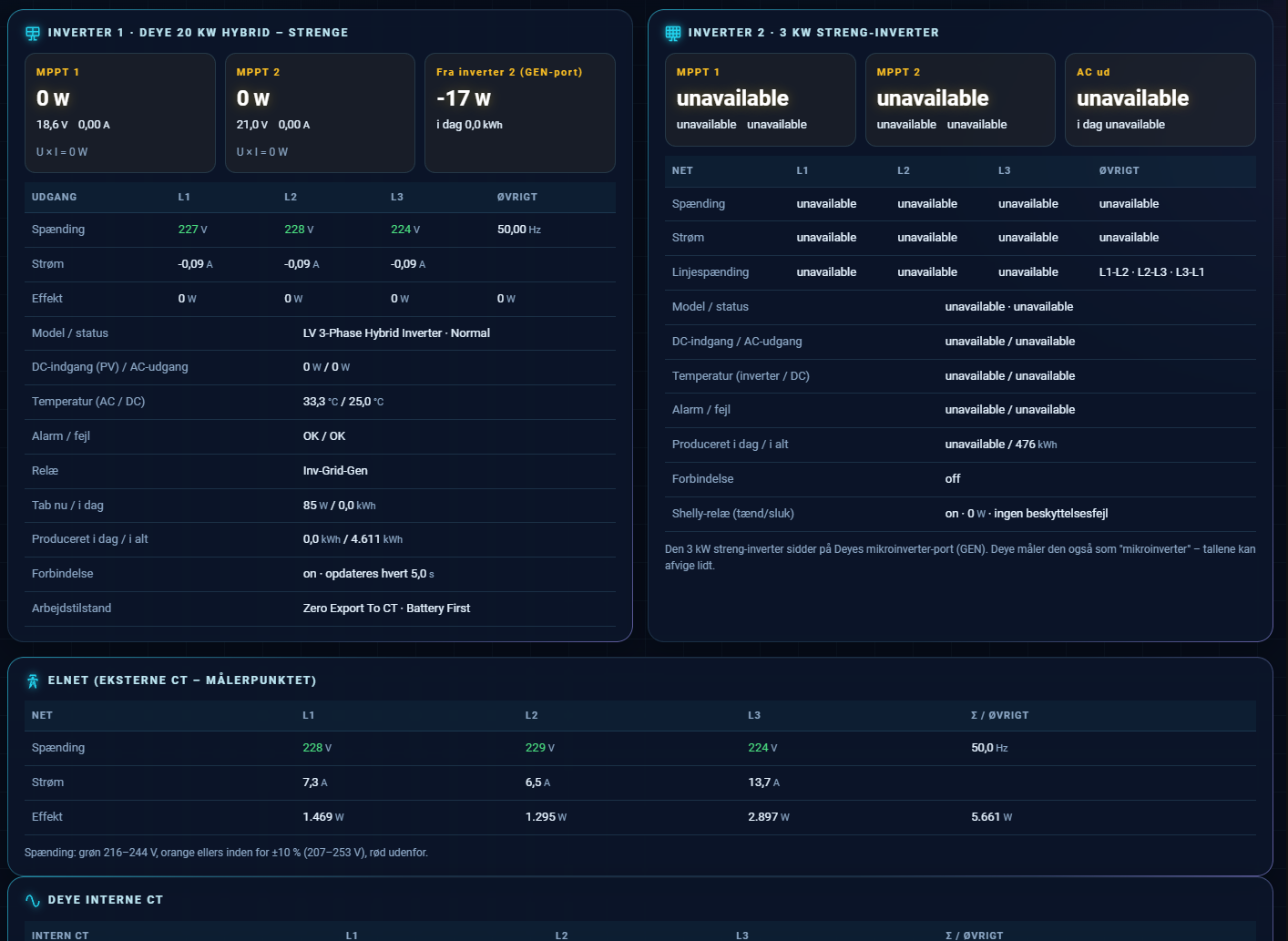
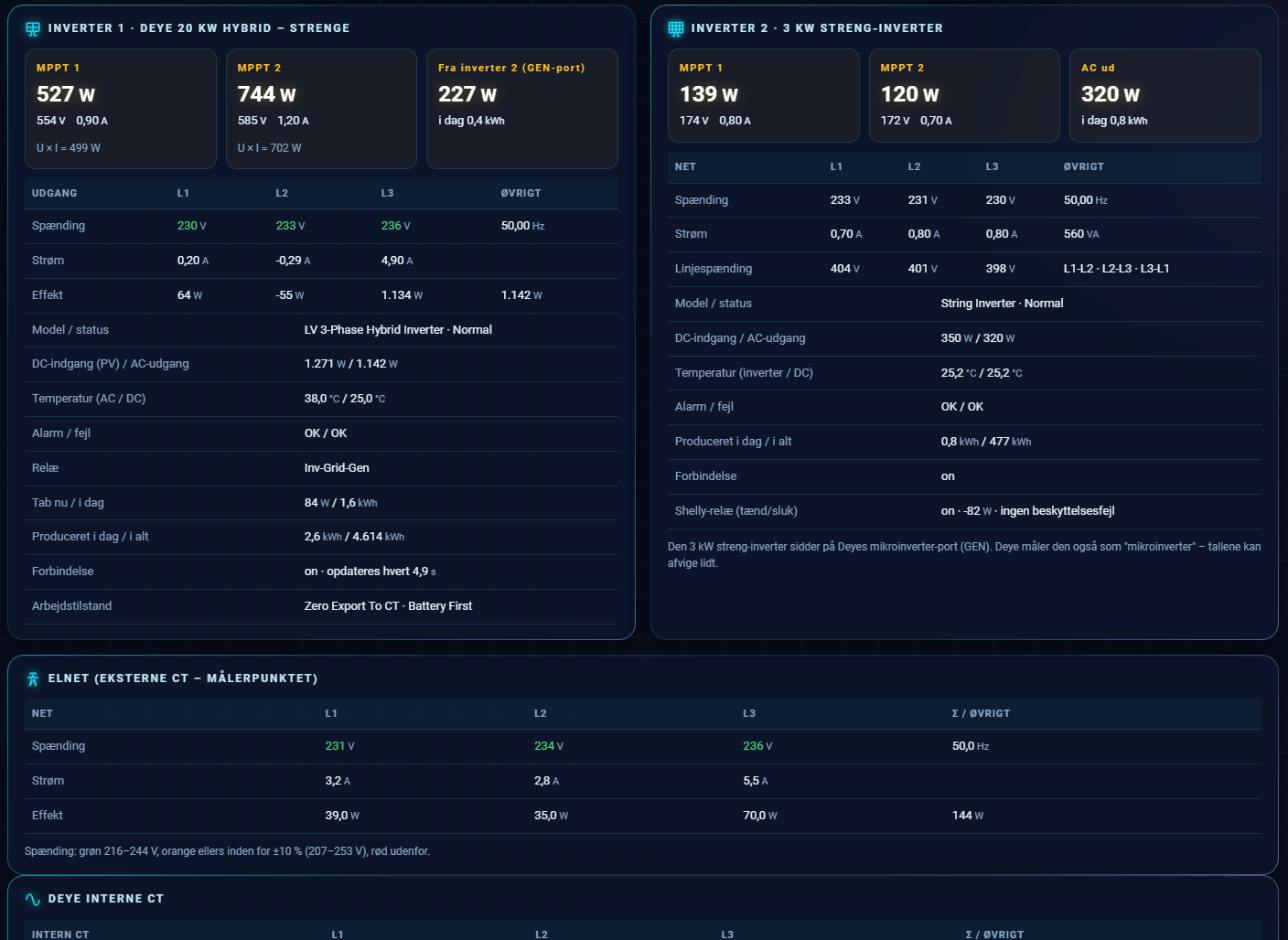
README: Teknik-billeder i dagslys

diff --git a/README.md b/README.md
@@ -63,8 +63,7 @@ og fleksibel forbruger.
 |---|---|
 | ![Teknik – inverter og net](docs/billeder/teknik.png) | ![Teknik – batteri og tidsprogrammer](docs/billeder/teknik_batteri.png) |
 
-*Live, planens logik, elpris og solprognose er vist med opdigtede demotal. De øvrige billeder er fra en rigtig installation
-(taget om natten, derfor 0 W sol og en slukket streng-inverter).*
+*Live, planens logik, elpris og solprognose er vist med opdigtede demotal. De øvrige billeder er fra en rigtig installation.*
 
 ## Hvilke invertere
 
